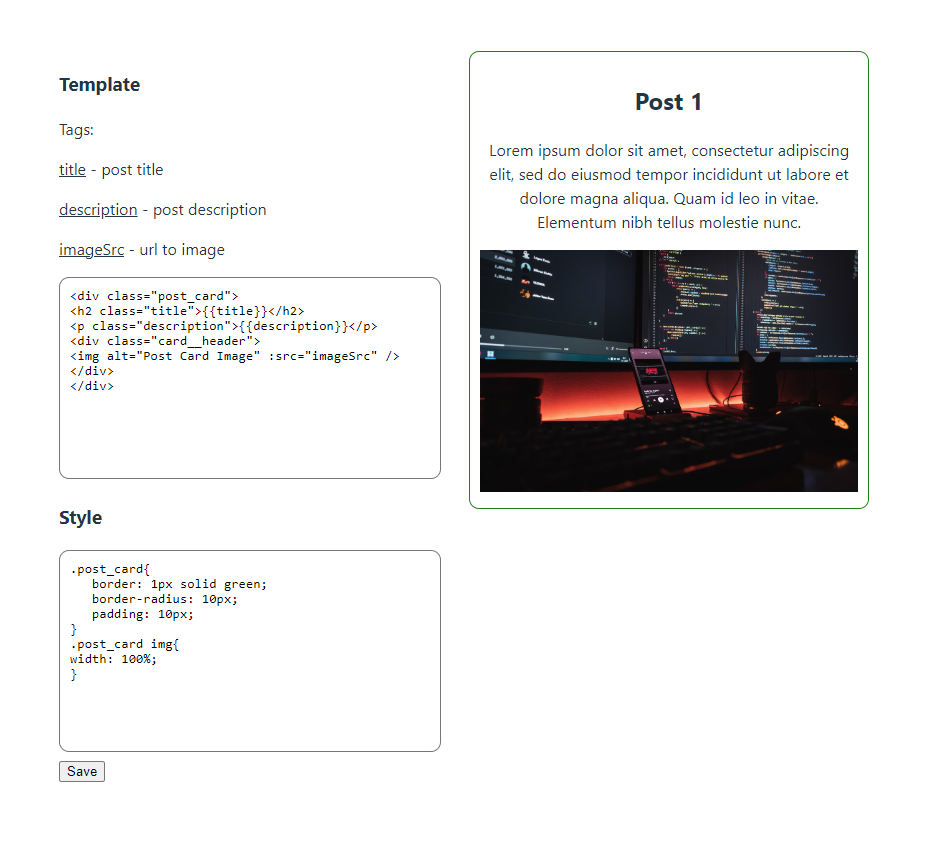
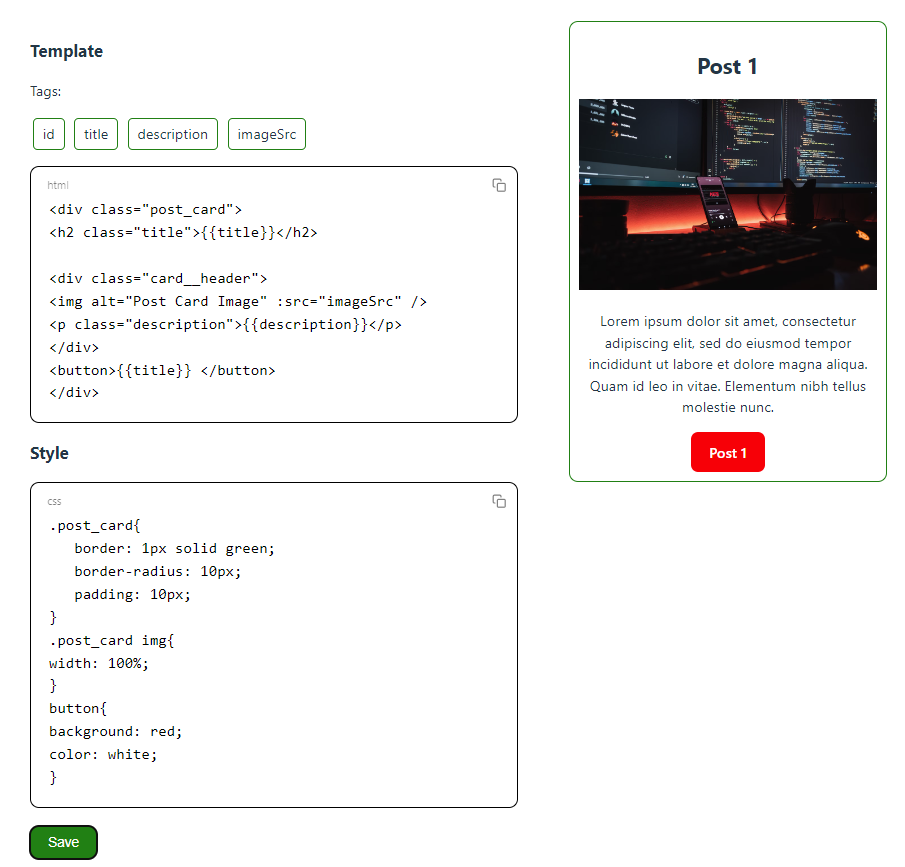
upd(admin): added editor, updater function

Changed region(s): [[0.0309, 0.0308, 0.9901, 1.0]]

diff --git a/admin/src/components/SFCEdit.vue b/admin/src/components/SFCEdit.vue
@@ -5,38 +5,43 @@
         <label>
           <h3>Template</h3>
           <p>Tags:</p>
-          <p><u>title</u> - post title</p>
-          <p><u>description</u> - post description</p>
-          <p><u>imageSrc</u> - url to image</p>
-          <textarea name="template" v-model="template"></textarea>
+          <p><span class="tag">id</span> <span class="tag">title</span> <span class="tag">description</span> <span class="tag">imageSrc</span></p>
+          <CodeEditor  :languages="[['html']]" theme="vs" v-model="template" key="template"></CodeEditor>
         </label>
       </div>
       <div>
         <label>
           <h3>Style</h3>
-          <textarea name="style" v-model="style"></textarea>
+          <CodeEditor  :languages="[['css']]" theme="vs" v-model="style" key="style"></CodeEditor>
         </label>
       </div>
       <div>
         <input type="submit" value="Save" />
       </div>
-      <div class="server-response">
+      <div :class="{'server-response': true, 'error': err}">
         {{ resp }}
       </div>
     </form>
   </div>
 </template>
 <script>
+import hljs from 'highlight.js';
+import CodeEditor from "simple-code-editor";
 export default {
+  components: {
+    CodeEditor,
+  },
   data() {
     return {
       template: "",
       style: "",
+      err: false,
       resp: "",
     };
   },
   methods: {
     saveFormValues: async function () {
+      try {
       const res = await fetch("/api/vue-sfc", {
         method: "POST",
         headers: { "Content-Type": "application/json" },
@@ -47,6 +52,11 @@ export default {
       });
       const data = await res.json();
       this.resp = data.message;
+      this.err = false;
+      this.$emit('updater', true );
+    } catch (error) {
+        console.log(error);
+      }
     },
 
     getFormValues: async function () {
@@ -70,14 +80,37 @@ export default {
 };
 </script>
 <style lang='scss' scoped>
+.tag{
+  display: inline-block;
+  padding: 5px 10px;
+  margin: 2px 3px;
+  border: 1px solid green;
+  border-radius: 5px;
+}
 .form {
   text-align: left;
-  textarea {
-    width: 90%;
-    height: 180px;
-    resize: none;
+  .code-editor {
+    border: 1px solid black;
     border-radius: 10px;
-    padding: 10px;
+  }
+  input[type="submit"] {
+    margin: 20px 0;
+    font-size: 15px;
+    border: none;
+    border-radius: 10px ;
+    background: green;
+    color: white;
+    padding: 10px 20px;
+    cursor: pointer;
+  }
+}
+.server-response{
+  color: green;
+  font-size: 20px;
+  font-weight: bold;
+  margin-top: 10px;
+  &.error{
+    color: red;
   }
 }
 </style>

diff --git a/admin/src/pages/PostCategoryTemplateEdit.vue b/admin/src/pages/PostCategoryTemplateEdit.vue
@@ -1,10 +1,10 @@
 <template>
   <div class="edit-block">
     <div class="edit-block__form">
-      <SFCEdit />
+      <SFCEdit @updater="updater"/>
     </div>
     <div class="edit-block__view">
-      <PostCategoryCard id="1" />
+      <PostCategoryCard id="1" :key="updateKey"/>
     </div>
   </div>
 </template>
@@ -18,6 +18,16 @@ export default {
     PostCategoryCard,
     SFCEdit,
   },
+  data() {
+    return{
+      updateKey: 0
+    }
+  },
+  methods: {
+    updater: function () {
+      this.updateKey++;
+    }
+  }
 };
 </script>
 <style lang='scss' scoped>
@@ -27,8 +37,15 @@ export default {
   margin: 10px auto;
   justify-content: center;
   gap: 10px;
-  div {
-    width: 400px;
+  .edit-block {
+    &__form{
+      width: 70%;
+
+    }
+    &__view{
+
+      width: 400px;
+    }
   }
 }
 </style>

diff --git a/README.md b/README.md
@@ -4,6 +4,15 @@
 - ExpressJs
 - VueJs
 
+## Run with Docker
+
+### Compose All
+- `docker-compose up --build` - run in main folder for generate and run all docker containers
+
+#### URLs
+- http://localhost:8000/
+- http://localhost:8000/admin/
+
 ## Server
 
 - NodeJs
@@ -23,10 +32,15 @@
 
 - VueJs
 - vue3-runtime-template
+- simple-code-editor
 
  ### Install & Run
 - `npm install`             - install npm modules
 - `npm run dev`             - run admin app
+
+### URL
+
+- http://localhost:8081/admin
 
 ![Admin page screenshot](screenshot-admin.png)
 
@@ -39,14 +53,8 @@
 - `npm install`             - install npm modules
 - `npm run dev`             - run admin app
 
+### URL
+
+http://localhost:8082
+
 ![Client page screenshot](screenshot-client.png)
-
-
-## Docker compose
-
-### Compose All
-- `docker-compose up --build` - run in main folder for generate and run all docker containers
-
-#### URLs
-- http://localhost:8000/
-- http://localhost:8000/admin/
